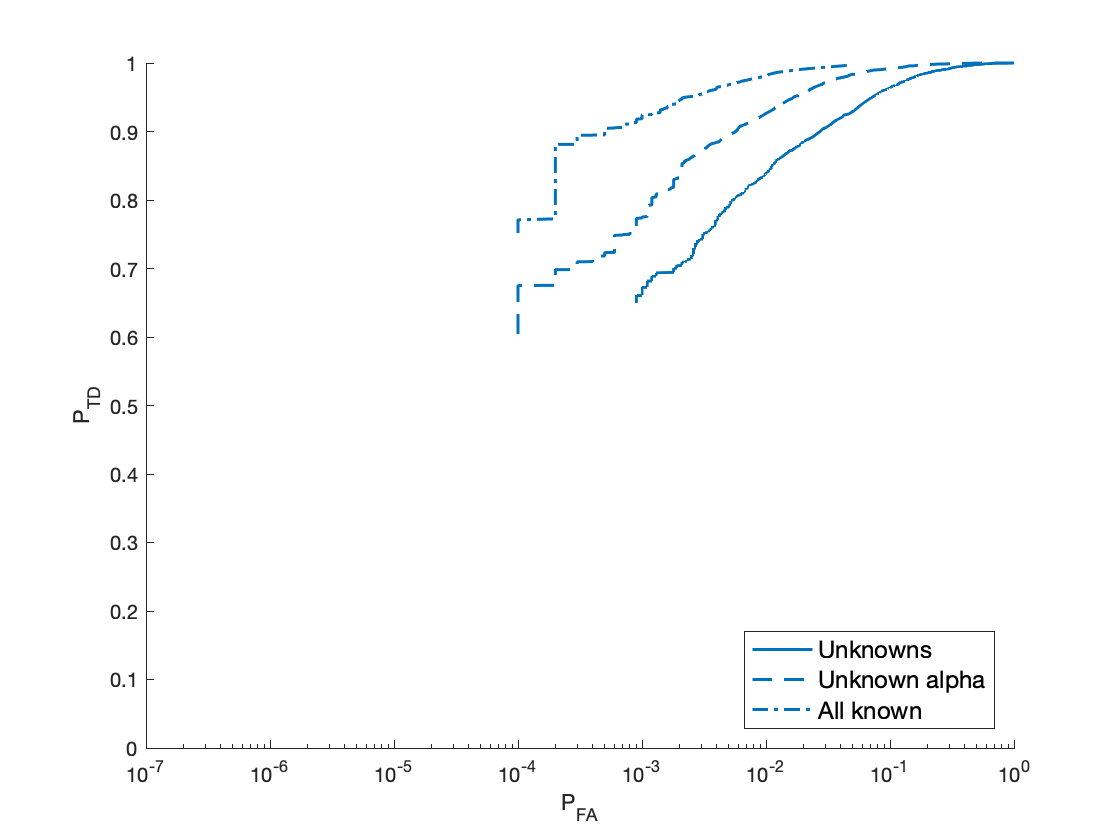
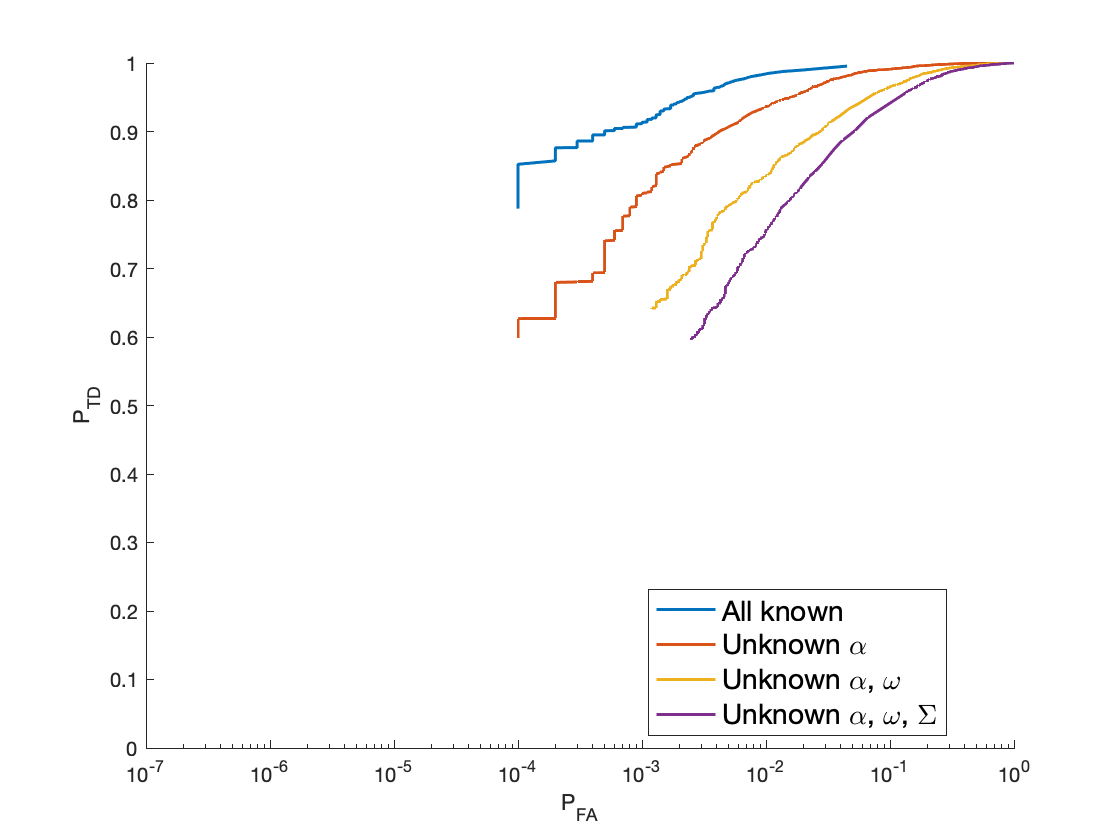
Added some more figures and included hej (unknown sigma CNCN) in comparisons.

diff --git a/Task2/Task2_Comparisons.m b/Task2/Task2_Comparisons.m
@@ -167,17 +167,17 @@ pDetectionActual  = sumTD_Actual/sampleSize;
 toc
 
 %% ============================ Plotting =====================
+load('Hej.mat')
 figure(1)
 hold on
+plot(pFalseAlarmActual, pDetectionActual, LineWidth=1.5)
+plot(pFalseAlarmUnknownAlpha, pDetectionUnknownAlpha, LineWidth=1.5)
 plot(pFalseAlarm, pDetection, LineWidth=1.5)
-set(gca,'ColorOrderIndex',1)
-plot(pFalseAlarmUnknownAlpha, pDetectionUnknownAlpha,'--', LineWidth=1.5)
-set(gca,'ColorOrderIndex',1)
-plot(pFalseAlarmActual, pDetectionActual,'-.', LineWidth=1.5)
+plot(hejPFA, hejPTD, LineWidth=1.5)
 %plot([0,1],[0,1],'k:')
 set(gca, 'XScale', 'log');
 xlabel('P_{FA}'), ylabel('P_{TD}')
-legend('Unknowns', 'Unknown alpha', 'All known', location = 'best',FontSize=12)
+legend( 'All known', 'Unknown \alpha','Unknown \alpha, \omega','Unknown \alpha, \omega, \Sigma', location = 'best',FontSize=14)
 axis([1e-7, 1, 0, 1])
 
 

diff --git a/Task2/Task2_UnknownSigma.m b/Task2/Task2_UnknownSigma.m
@@ -9,7 +9,7 @@ clc, clear, close all
 
 %% ================== Parameters ========================
 % --------- Simulation ---------
-sampleSize = 1e3;
+sampleSize = 1e4;
 sigma = 1;
 rMax  = 10*sigma; % kanske större för Kdist? 
 
@@ -17,7 +17,7 @@ numberOfPulses    = 128; % 128
 numberOfDistances = 100;  % 100
 
 % --------- Signal ----------- 
-SIRs = [3]%, 1, 3, 5]; % dB 
+SIRs = [0, 1, 3, 5]; % dB 
 
 % Actual signal
 omegaDActual  = 0.01;
@@ -41,7 +41,7 @@ toeplitzMatrixInverse = inv(toeplitzMatrix);
 
 % -----  Threshold values ------
 numberOfEtaValues = 1000;
-etaValues = [linspace(0.1, 100, numberOfEtaValues*0.3),linspace(100, 10000, numberOfEtaValues*0.7)];
+etaValues = [linspace(0.1, 500, numberOfEtaValues*0.3),linspace(500, 1000000, numberOfEtaValues*0.7)];
 
 
 % ------- Distributions ------------
